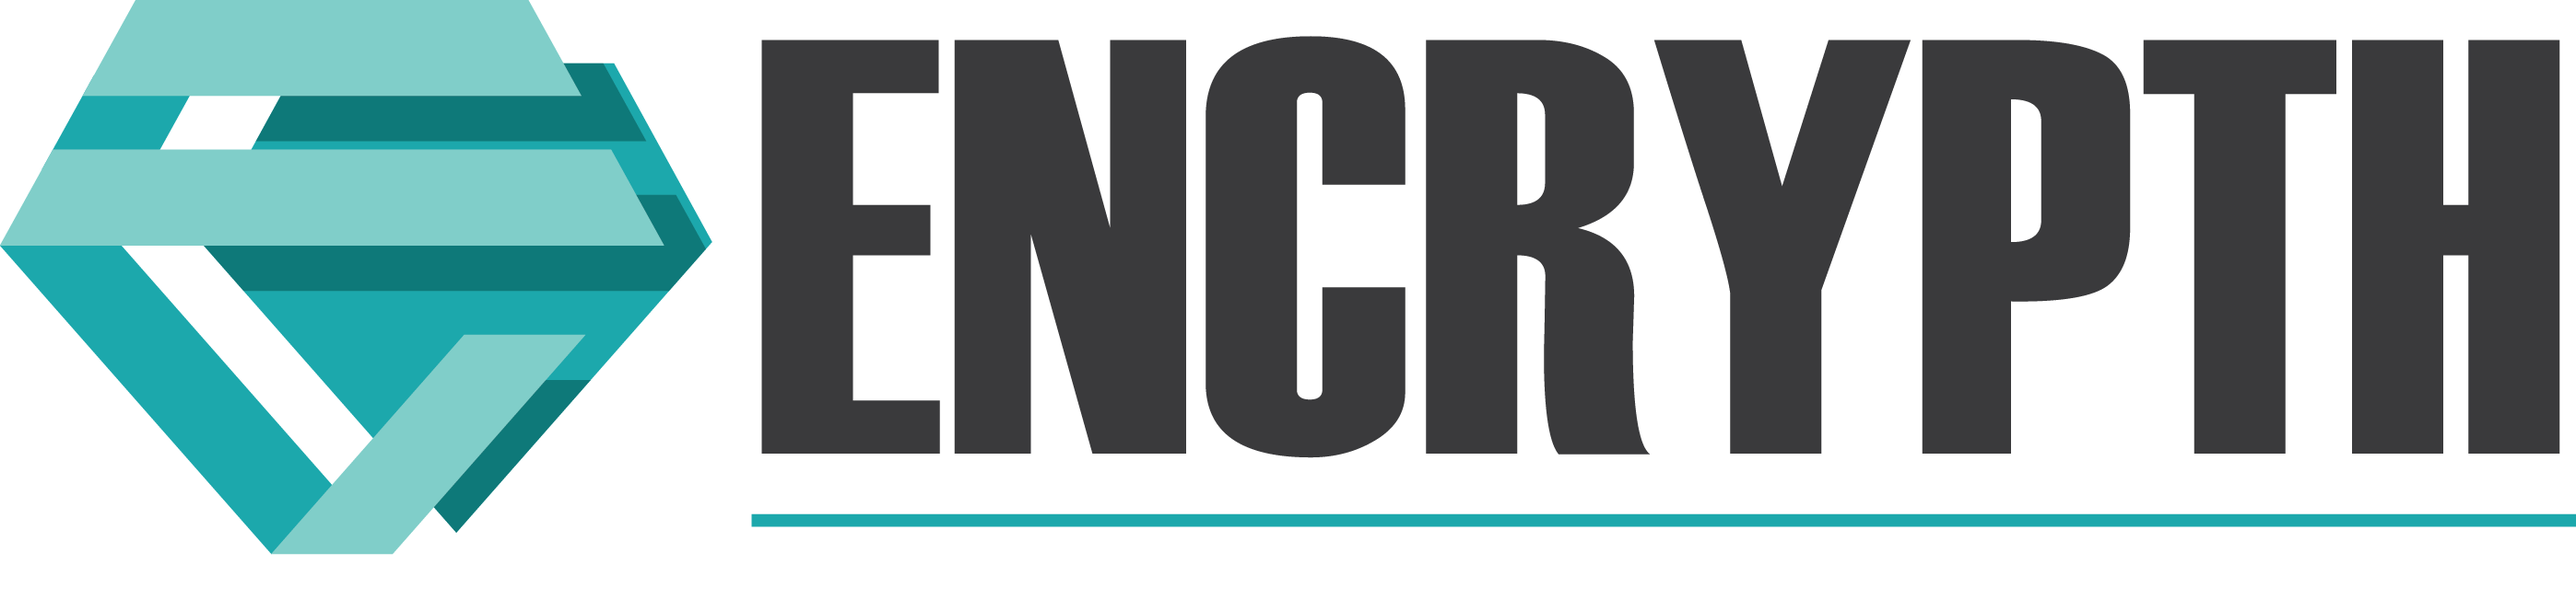
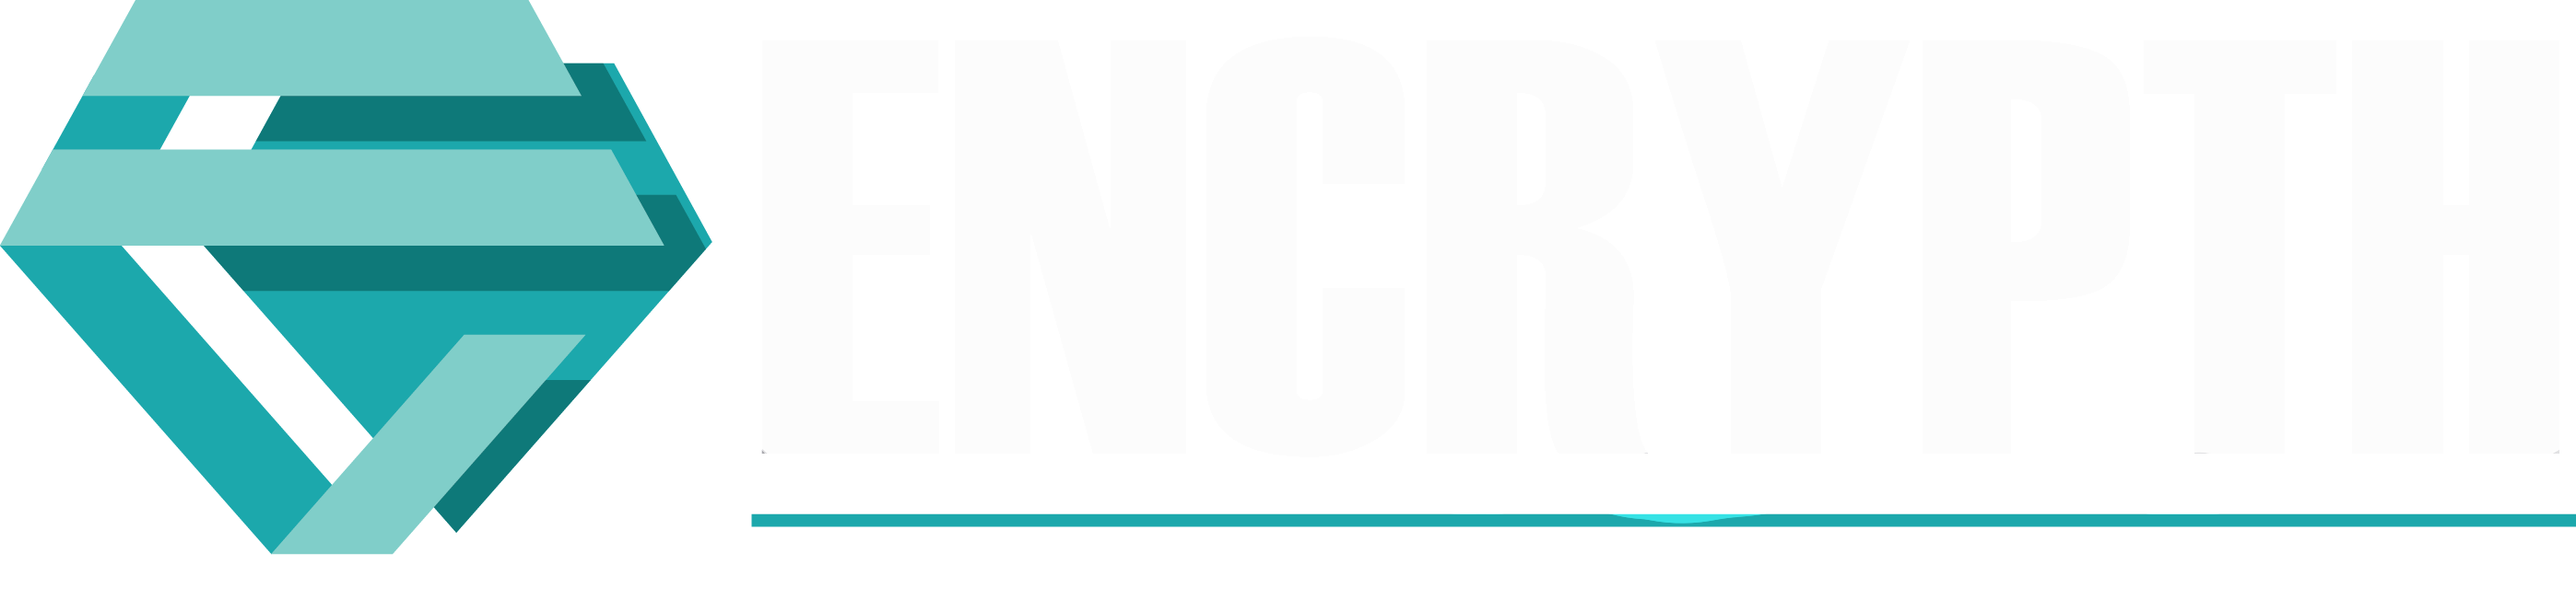
파트너사 추가

diff --git a/ko.php b/ko.php
@@ -484,6 +484,7 @@
             <a href="https://coinmarketcal.com/" target="_blank"><img src="assets/img/Coinmarketcal.png" class="partner--logo" style="width:200px; margin:25px; vertical-align:middle;"></a>
                         
             <a href="http://imblock.network/" target="_blank"><img src="assets/img/imblock.png" class="partner--logo" style="width:200px; margin:25px; vertical-align:middle;"></a>
+            <a href="https://www.encrypth.com/" target="_blank"><img src="assets/img/encrypth.png" class="partner--logo" style="width:200px; margin:25px; vertical-align:middle;"></a>
 		</div>
 		
         <h1 class="title center white add-mg-b" style="margin-top:100px;">전략 파트너사</h1>

diff --git a/index.php b/index.php
@@ -494,6 +494,7 @@
             <a href="https://coinmarketcal.com/" target="_blank"><img src="assets/img/Coinmarketcal.png" class="partner--logo" style="width:200px; margin:25px; vertical-align:middle;"></a>
             
             <a href="http://imblock.network/" target="_blank"><img src="assets/img/imblock.png" class="partner--logo" style="width:200px; margin:25px; vertical-align:middle;"></a>
+            <a href="https://www.encrypth.com/" target="_blank"><img src="assets/img/encrypth.png" class="partner--logo" style="width:200px; margin:25px; vertical-align:middle;"></a>
 		</div>
 		
 		<h1 class="title center white add-mg-b" style="margin-top:100px;">Strategic Partners</h1>
